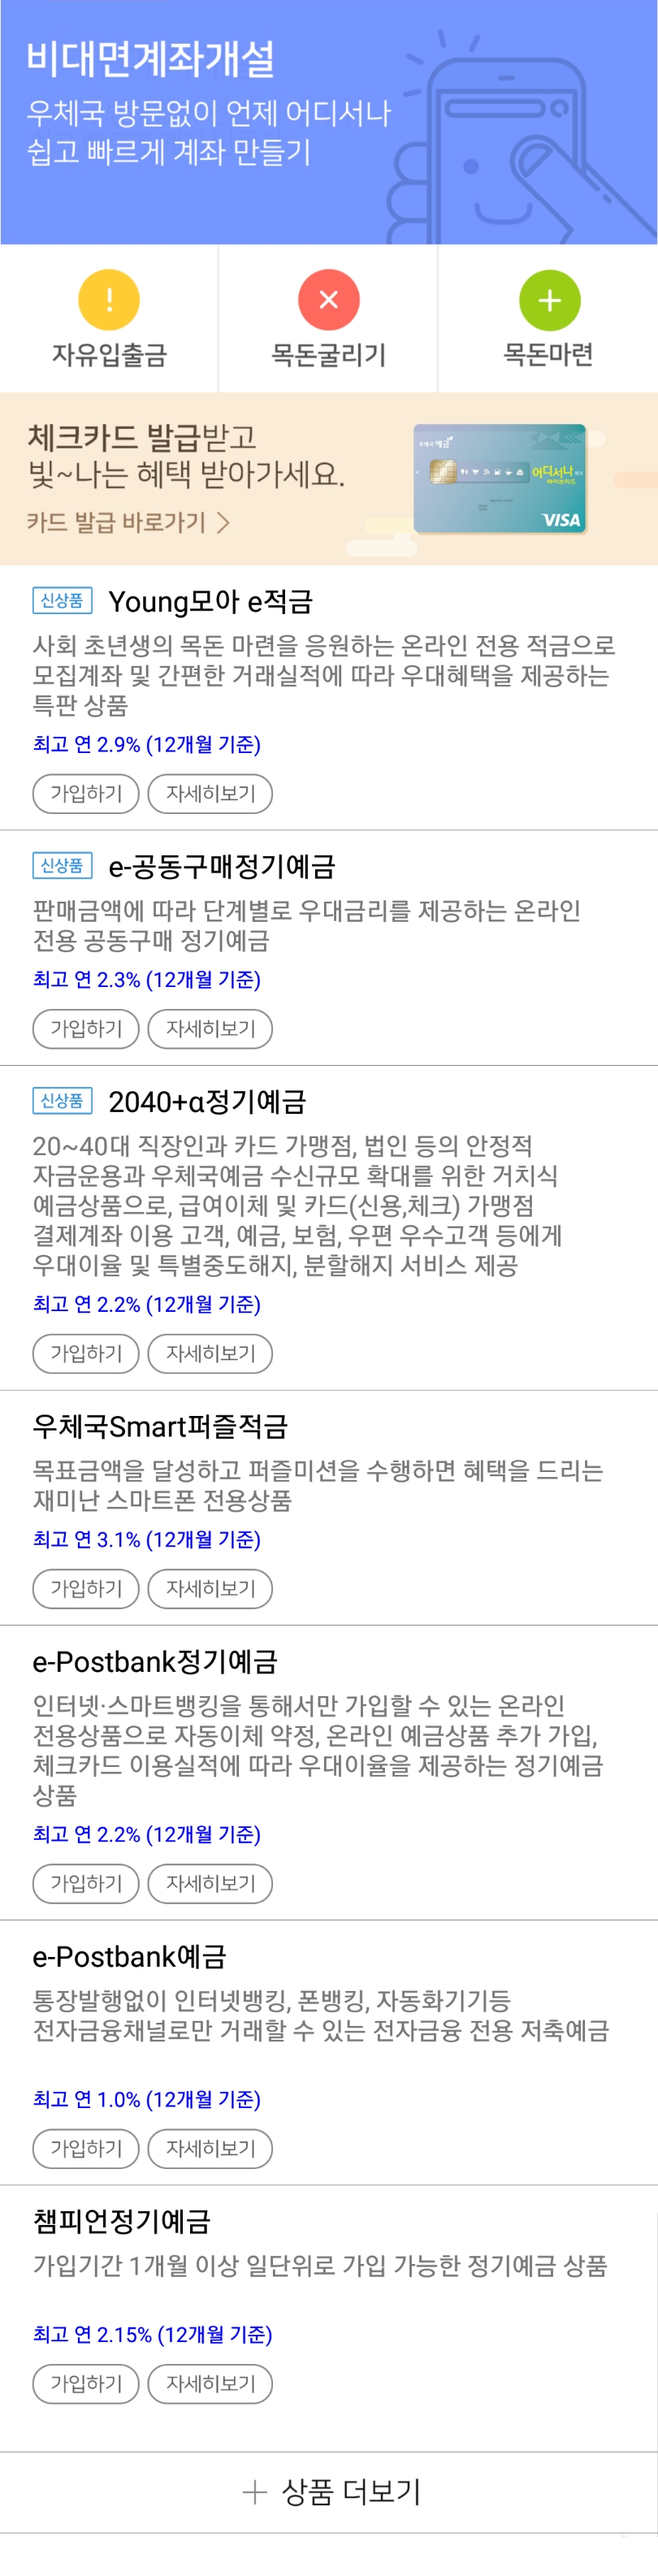
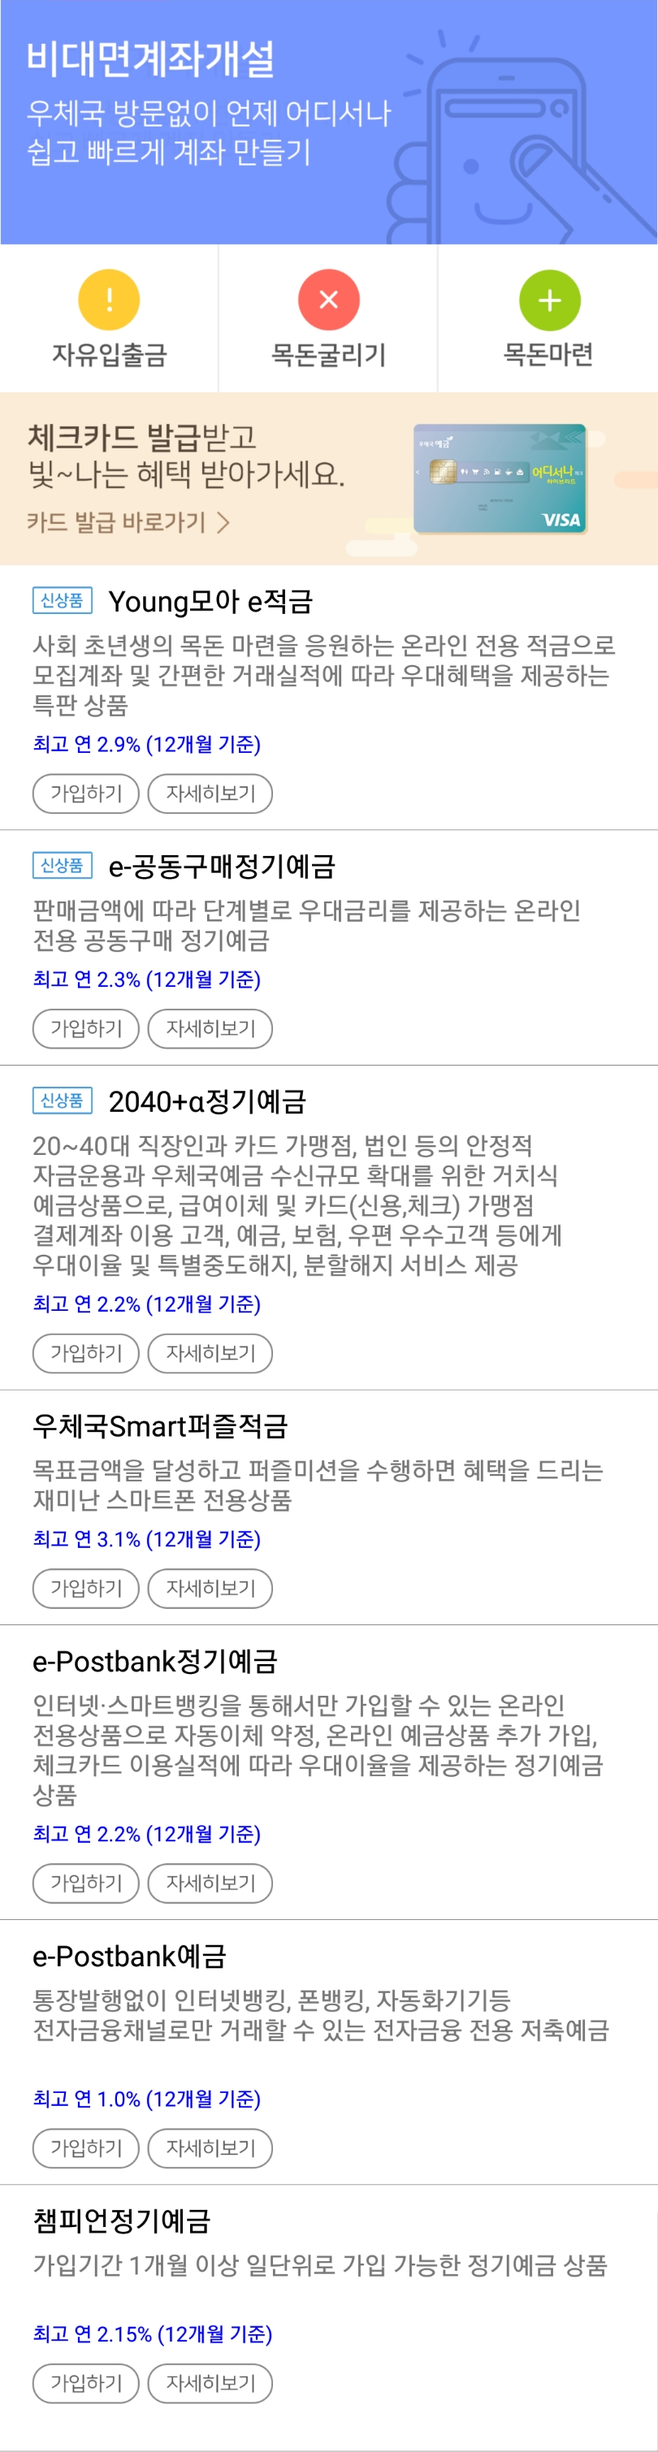
ajax fix

diff --git a/front/css/common.css b/front/css/common.css
@@ -70,3 +70,4 @@ body.drawer #drawer { left:0; }
 #connect_id { display:block; border:1px solid #ccc; width:100%; padding:5px; margin-bottom:10px; }
 #kpa-submit { display:block; width:100%; text-align:center; background:#c71314; padding:10px; border:0; font-size:14px; color:#fff; font-weight:bold; }
 
+#btn-more { width:100%; display:block; padding:15px; border-bottom:1px solid #ddd; color:#888; text-align:center; margin-bottom:20px; }

diff --git a/front/js/kp.js b/front/js/kp.js
@@ -11,14 +11,14 @@ function returnReload(){
 	var data = $('#connect_id').val();
 	
 	$.ajax({
-		url: 'http://localhost:7777/connect',
+		url: 'http://116.39.0.146:7777/connect',
 		type: 'POST',
 		data: data,
 		success: function(data){
 			console.log(data)
 		},
-		error: function(){
-			console.log('failed')
+		error: function(error){
+			console.log(error)
 		}
 	});
 }

diff --git a/front/webapp.html b/front/webapp.html
@@ -113,6 +113,7 @@
 	<div id="content">
 		<div class="content-tab">
 			<img class="w100" src="img/kp-tab1.png">
+			<a id="btn-more" href="javascript:;">+ 상품 더보기</a>
 		</div>
 		<div class="content-tab active">
 			<img class="w100" src="img/kp-tab2.png">
